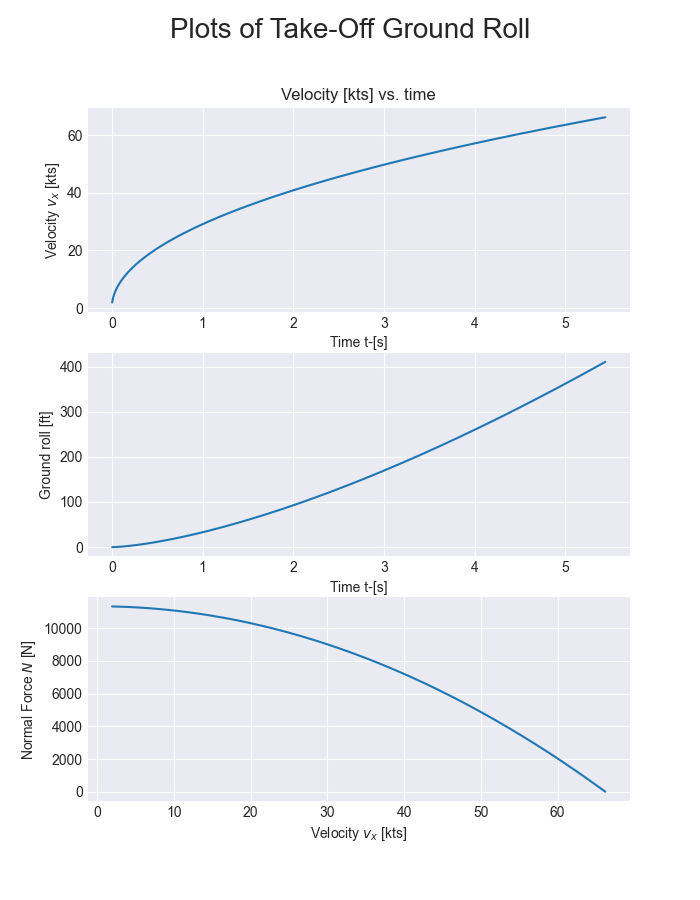
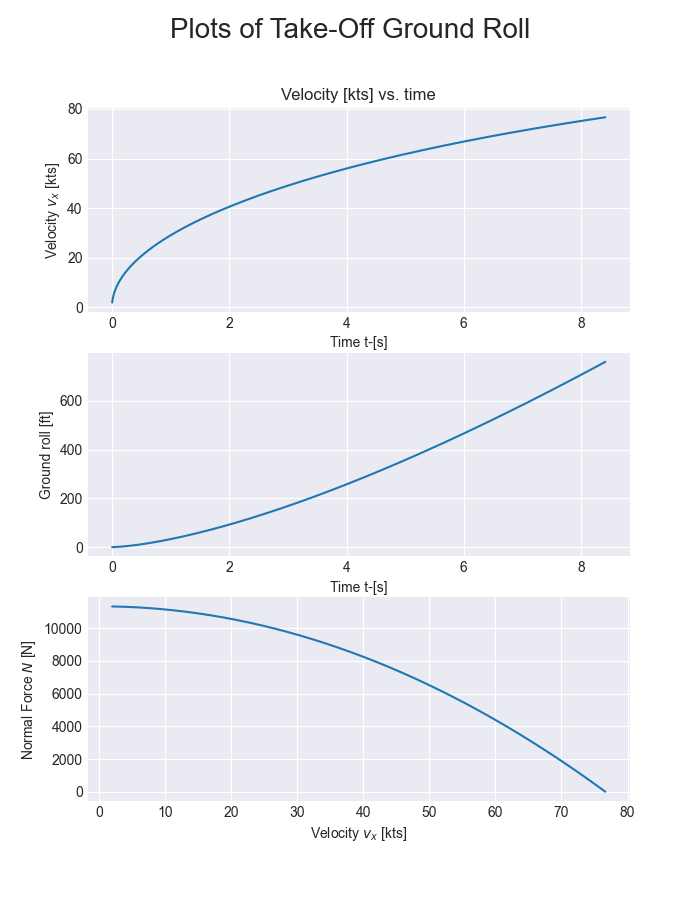
Thrust Model is Active

diff --git a/Propulsion/Engine.py b/Propulsion/Engine.py
@@ -1,7 +1,7 @@
 #Engine
 import os
 engine_dir = os.getcwd()
-main_dir = "C:\APCSE"
+main_dir = "C:\\APCSE"
 os.chdir(main_dir)
 from AtmosphereFunction import AtmosphereFunctionSI
 from Aviation import Aviation
@@ -24,7 +24,43 @@ class PropEngine(Powerplant):
 
 class TurboProp(PropEngine):
     pass
+class Propeller():
+    """
+    Stores the attributes of the propeller
 
+    Parameters
+    ----------
+    Make : string
+        Maker of the propeller
+    Model : string
+        Specific Model of the propeller
+    Diameter : float/int
+        Diameter of the propeller in inches
+    Spinner_Diameter : float/int
+        Diamter of the spinner or maximum obstruction in inches
+    """
+    def __init__(self, Make, Model, Diameter, Spinner_Diameter) -> None:
+        self.Make = Make
+        self.Model = Model
+        self.Diameter = Diameter * sp.constants.inch
+        self.Spinner_Diameter = Spinner_Diameter * sp.constants.inch
+    def Get_Area_and_AreaEfficiency(self):
+        """
+        Function that takes in no arguments and returns both the area and the area efficiency
+        Returns
+        ------
+        A_2 : float
+            Area of the propeller "disc"
+        eta_A : float
+            Efficiency ratio of the difference in area normalized by propeller area
+
+        Notes: This is NOT the area of the actual propeller, but it is the area of the control section of airflow through the propeller. 
+        This is useful in the Rankine-Foude Momentum Theory framework so that we can find the static thrust for the engine and propeller.
+        """
+        A_2 = self.Diameter**2*sp.pi/4
+        A_spin = self.Diameter**2*sp.pi/4
+        eta_A = 1-A_spin/A_2
+        return A_2, eta_A
 
 
 
@@ -42,15 +78,34 @@ class EngineTest(Powerplant):
     MaxPower : int/float
         Rated power of the engine in terms of [hp]
     """
-    def __init__(self, Name, MaxPower = 180) -> None:
+    def __init__(self, Name, AircraftPropeller, MaxPower = 180) -> None:
         self.Name = Name
+        self.Propeller = AircraftPropeller
+        self.BreakHorsePower = self.MaxPower
         self.MaxPower = MaxPower * self.hp_to_watt
+        self.BreakPower = self.MaxPower
+        self.eta = 0.9
+        self.Power = self.BreakPower * self.eta
+        self.Altitude = 0
+        self.Atmosphere_attr()
+    def Thrust_Static(self):
+        A_2, eta_A = self.Propeller.Get_Area_and_AreaEfficiency()
+        Thrust_Static = 0.85*self.Power**(2/3)*(2*self.rho*A_2)**(1/3)*eta_A
+        return Thrust_Static
 
-    def Get_Thrust(self, v_infty):
-        v_j = 5 # m/s
-        Idle_Trust = self.MaxPower / v_j
-        if v_infty <= 5:
-            Thrust = Idle_Trust
-        else: 
-            Thrust = self.MaxPower / v_infty
-        return Thrust
+    def Get_Thrust(self, Velocity_infty, Velocity_NE):
+        Velocity_Max = Velocity_NE*sp.constants.knot
+        Thrust_Max = self.MaxPower/Velocity_Max
+        Thrust_Static = self.Thrust_Static()
+        self.Thrust = Thrust_Static + (3*Thrust_Max-2*Thrust_Static)/Velocity_Max*Velocity_infty + (Thrust_Static-2*Thrust_Max)/Velocity_Max**2*Velocity_infty**2
+        return self.Thrust
+    def Get_FuelConsumption(self):
+        DcDP = (79-72)/(152-135)
+        cmax = DcDP*(180-152) + 79
+        cmax_Si = cmax * self.lbf_to_kg / self.h_to_s
+        mdot = -cmax_Si
+
+ArcherProp = Propeller("Sensenich", "76EM8S14-0-62", 76, 76/8)
+engine1 = EngineTest("test", ArcherProp)
+engine1.Get_Thrust(4)
+engine1.Get_FuelConsumption()

diff --git a/Aircraft.py b/Aircraft.py
@@ -35,15 +35,17 @@ class Aircraft(Aviation):
     This class builds up all of the shared data for all components.      
     """
 
-    def __init__(self, AircraftName, Wings, HorizontalStabilizer, VerticalStabilizer, Fuselage) -> None: 
+    def __init__(self, AircraftName, Wings, HorizontalStabilizer, VerticalStabilizer, Fuselage, Engine) -> None: 
         self.AircraftName = AircraftName
         self.Wings = Wings
         self.HorizontalStabilizer = HorizontalStabilizer
         self.Fuselage = Fuselage
         self.VerticalStabilizer = VerticalStabilizer
-        self.SubComponents = [Wings, HorizontalStabilizer, Fuselage, VerticalStabilizer]
+        self.Engine = Engine
+        self.SubComponents = [Wings, HorizontalStabilizer, Fuselage, VerticalStabilizer, Engine]
         self.Altitude = 0
         self.Atmosphere_attr()
+        self.Dictionary_setattr() 
     def GetC_D(self, Components):
         C_D = 0
         for Part in Components:

diff --git a/PiperArcherIII_Blueprint.py b/PiperArcherIII_Blueprint.py
@@ -7,4 +7,7 @@ ArcherWings = Wings(AircraftName, PiperArcherIII_Dict)
 ArcherHorizontalStabilizer = HorizontalStabilizer(AircraftName, PiperArcherIII_Dict)
 ArcherVerticalStabilizer = VerticalStabilizer(AircraftName, PiperArcherIII_Dict)
 ArcherFuselage = Fuselage(AircraftName, PiperArcherIII_Dict)
-ArcherAircraft = Aircraft(AircraftName, ArcherWings, ArcherHorizontalStabilizer, ArcherFuselage, ArcherVerticalStabilizer)
+ArcherEngine = EngineTest(AircraftName)
+ArcherAircraft = Aircraft(AircraftName, ArcherWings, ArcherHorizontalStabilizer, ArcherFuselage, ArcherVerticalStabilizer, ArcherEngine)
+ArcherAircraft.Dictionary_setattr(PiperArcherIII_Dict["Performance"])
+

diff --git a/Control/MissionPhase/Take_Off.py b/Control/MissionPhase/Take_Off.py
@@ -1,4 +1,17 @@
 from Control.Control import Control
+import numpy as np
 class Take_Off(Control):
+    """
+    This is the class that holds the methods required for running a Take-Off simulation. 
+    """
     def __init__(self, AircraftInstance) -> None:
         self.aircraft = AircraftInstance
+    def reset(self):
+        """
+        ONLY RUN IF YOU WANT THE AIRCRAFT TO HAVE THE BASE STATE OF TAKE-OFF.
+
+        This method starts the aircraft off at a state at ground level and with zero.
+        """
+        self.aircraft.Altitude = 0
+        self.aircraft.Velocity = np.zeros(3)
+        self.aircraft.Weight = self.aircraft.g * self.aircraft.MGTOW

diff --git a/Aircraft_Dictionaries/PA_28_181.py b/Aircraft_Dictionaries/PA_28_181.py
@@ -16,10 +16,12 @@ PA_28_181_Fuselage_dict = dict({
 })
 
 PA_28_181_Performance_dict = dict({
-    "MGTOW" : [2550, "lbf"],
-    "MaxFuel" : [48*6, 'lbf'],
-    "GlideSpeed" : [76, "knots"],
-    "ServiceCeiling" : [13240, "ft"]
+    "MGTOW" : [2550., "lbf"],
+    "MaxFuel" : [48*6., 'lbf'],
+    "GlideSpeed" : [76., "knots"],
+    "BestClimbSpeed" : [76., "knots"],
+    "RotationSpeed" : [66., "knots"],
+    "ServiceCeiling" : [13240., "ft"]
 })
 
 PA_28_181_Dict = dict({

diff --git a/Aviation.py b/Aviation.py
@@ -35,6 +35,8 @@ class Aviation:
     mps_to_knots = 1/sp.constants.knot
     fps_to_knots = sp.constants.foot/sp.constants.knot
     knots_to_fps = sp.constants.knot/sp.constants.foot
+    lbf_to_kg = sp.constants.pound
+    h_to_s = 60**2
 
     def __init__(self, Altitude = 0) -> None:
         self.Altitude = Altitude
@@ -77,4 +79,3 @@ class Aviation:
             setattr(self, key, Dictionary[key])
 test = Aviation()
 test.Atmosphere_attr()
-print(test.__dict__)
